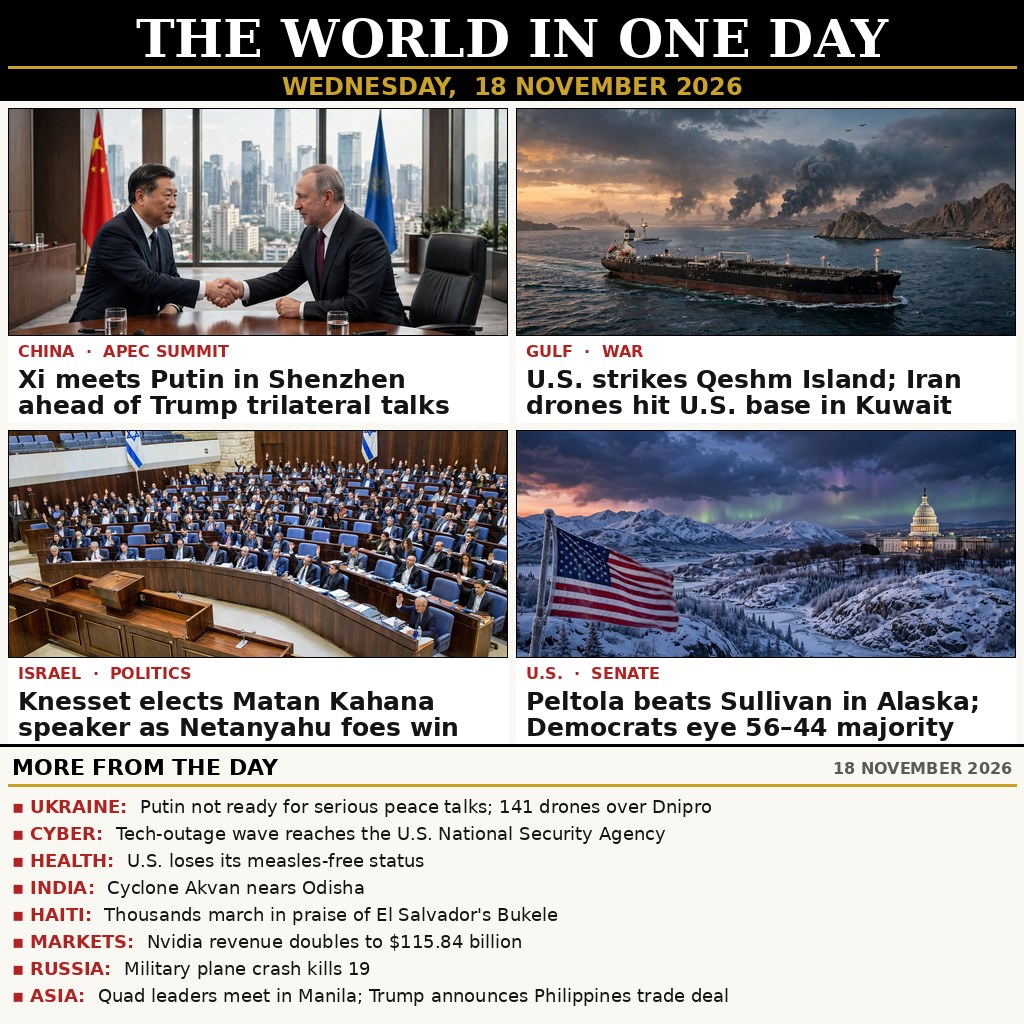
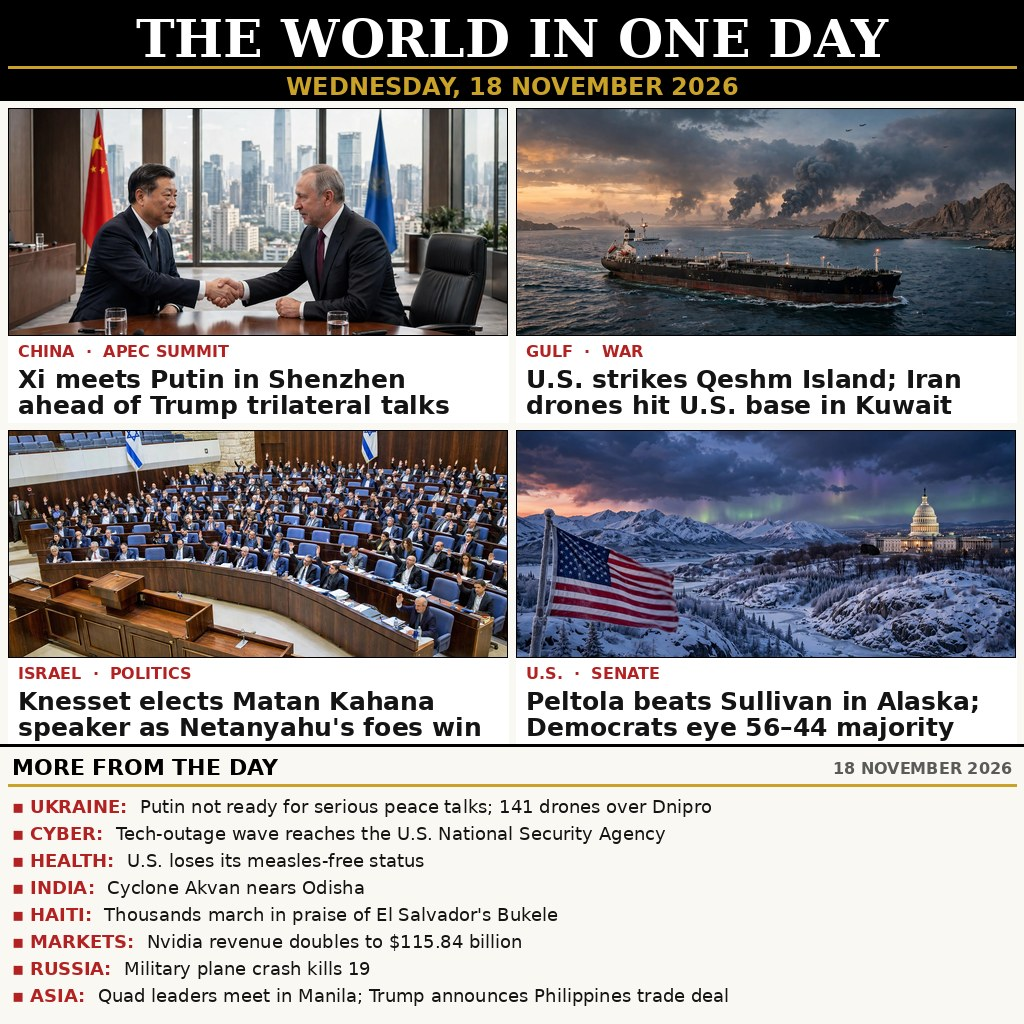
Polish captions: Netanyahu's foes wording; single-space masthead date

Changed region(s): [[0.2812, 0.0625, 0.7188, 0.0938], [0.3125, 0.6875, 0.4688, 0.7188]]

diff --git a/compose.py b/compose.py
@@ -60,7 +60,7 @@ PANELS = [
     {
         "file": "media-generation-panel-israel-knesset-0-f3ca275e-2745-4952-afae-64a2553771c5.webp",
         "kicker": "ISRAEL  ·  POLITICS",
-        "headline": "Knesset elects Matan Kahana speaker as Netanyahu foes win",
+        "headline": "Knesset elects Matan Kahana speaker as Netanyahu's foes win",
     },
     {
         "file": "media-generation-panel-alaska-senate-0-6c81b174-11bf-46ee-a0ca-384a49836676.webp",
@@ -145,7 +145,7 @@ def main():
     draw.text(((W - tw) / 2, 8), title, font=title_fnt, fill=WHITE)
     draw.rectangle([MARGIN, 66, W - MARGIN, 68], fill=GOLD)
     date_fnt = font(SANS_BOLD, 24)
-    date = "WEDNESDAY,  18 NOVEMBER 2026"
+    date = "WEDNESDAY, 18 NOVEMBER 2026"
     dw = draw.textlength(date, font=date_fnt)
     draw.text(((W - dw) / 2, 72), date, font=date_fnt, fill=GOLD)
 
